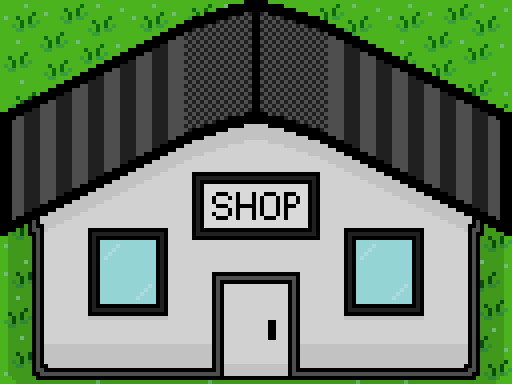
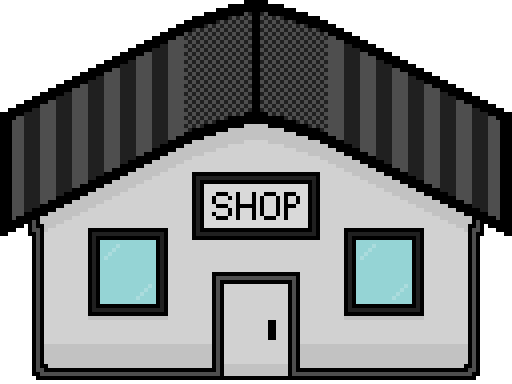
Nieuwe plaatjes

Changed region(s): [[0.0, 0.5938, 1.0, 1.0], [0.5312, 0.0, 1.0, 0.3125], [0.0, 0.0, 0.4688, 0.3125]]

diff --git a/RPG/src/view/MainScene.java b/RPG/src/view/MainScene.java
@@ -38,18 +38,18 @@ public class MainScene extends Scene {
 	private MainController controller;
 
 	private LoadingView loadingView;
-	private PlayerView playerView;
-	private Background background;
 	private StartUpView startUpView;
 	private PauseMenuView pauseMenuView;
 	private InGameMenuView inGameMenuView;
 	private InventoryView inventoryView;
 	private LoadGameView loadGameView;
 	private NewGameView newGameView;
-	private BuildingView buildingView;
 
 	private BorderPane root;
+	private Background background;
+	private PlayerView playerView;
 	private StackPane menusPane;
+	private BuildingView buildingView;
 	private BuildingsLayer buildingsLayer;
 
 	private boolean gameHasLoaded;
@@ -133,15 +133,14 @@ public class MainScene extends Scene {
 	public void updateLayersPositions() {
 		ArrayList<Node> sortedNodes = new ArrayList<>(root.getChildren());
 
+		sortedNodes.remove(background);
 		sortedNodes.sort((node1, node2) -> {
-			if(node1 == background) return -1;
-			if(node2 == background) return 1;
-			
 			double y1 = node1.getBoundsInParent().getMaxY();
 			double y2 = node2.getBoundsInParent().getMaxY();
 
 			return Double.compare(y1, y2);
 		});
+		sortedNodes.add(0, background);
 
 		root.getChildren().setAll(sortedNodes);
 	}

diff --git a/RPG/src/model/Building.java b/RPG/src/model/Building.java
@@ -69,7 +69,7 @@ public class Building {
 			outsideBounds = createRectBounds(location.getX(), location.getY() + tileSize, 4, 2, tileSize, xWalkSpace, 0);
 			break;
 		case TENT:
-			xWalkSpace = 20;
+			xWalkSpace = 16;
 			outsideBounds = createRectBounds(location.getX(), location.getY() + tileSize * 0.8, 2, 1.2, tileSize, xWalkSpace, 0);
 			break;
 		default:
